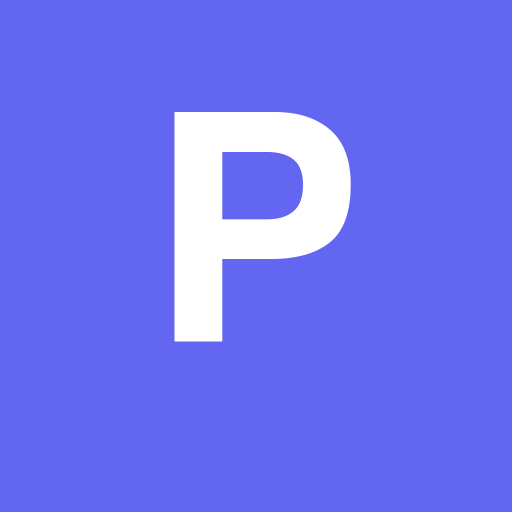
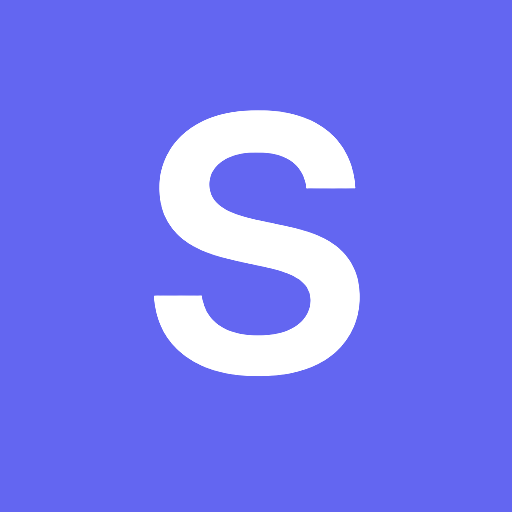
tend: ## Directory Structure
run3-ai.py
run11.py
run.py
export_data.py
run15. (76cede21)

diff --git a/web/src/components/GameApp.tsx b/web/src/components/GameApp.tsx
@@ -121,7 +121,7 @@ export function GameApp({
   return (
     <div className={`${compact ? "max-w-md py-4" : "max-w-lg py-6"} w-full mx-auto px-4 h-[100dvh] flex flex-col items-center overflow-hidden box-border`}>
       <div className="w-full flex justify-between items-baseline">
-        <h1 className="text-xl font-bold tracking-tight">doublespeak</h1>
+        <h1 className="text-xl font-bold tracking-tight">Split</h1>
         {showRandom && (
           <button
             onClick={handleRandomPuzzle}

diff --git a/web/src/index.html b/web/src/index.html
@@ -7,7 +7,8 @@
     <meta name="apple-mobile-web-app-status-bar-style" content="black-translucent" />
     <meta name="viewport" content="width=device-width, initial-scale=1.0, user-scalable=no" />
     
-    <title>doublespeak</title>
+    <title>Split</title>
+    <meta name="apple-mobile-web-app-title" content="Split">
     <meta name="theme-color" content="#ffffff">
     <link rel="preconnect" href="https://fonts.googleapis.com">
     <link rel="preconnect" href="https://fonts.gstatic.com" crossorigin>

diff --git a/puzzle-designer/src/App.tsx b/puzzle-designer/src/App.tsx
@@ -343,7 +343,7 @@ export function App() {
       {/* HEADER */}
       <header className="border-b border-black px-4 py-1.5 flex items-center justify-between">
         <h1 className="text-xs font-bold tracking-widest uppercase">
-          Proseset Designer
+          Split Designer
         </h1>
         <div className="flex items-center gap-4 text-xs">
           {enabledCount > 0 && (

diff --git a/puzzle-designer/src/index.html b/puzzle-designer/src/index.html
@@ -7,7 +7,7 @@
     <meta name="apple-mobile-web-app-status-bar-style" content="black-translucent" />
     <meta name="viewport" content="width=device-width, initial-scale=1.0, user-scalable=no" />
 
-    <title>Proseset Puzzle Designer</title>
+    <title>Split Puzzle Designer</title>
     <script type="module" src="./frontend.tsx" async></script>
   </head>
   <body>

diff --git a/web/src/server/segmentation.ts b/web/src/server/segmentation.ts
@@ -1,5 +1,5 @@
 /**
- * Server-side segmentation engine for validating Proseset combos.
+ * Server-side segmentation engine for validating Split combos.
  * Ports the core logic from puzzle1.py's segment_word + puzzle3.py's boundary check.
  */
 

diff --git a/web/public/sw.js b/web/public/sw.js
@@ -1,4 +1,4 @@
-const CACHE_NAME = "proseset-v2";
+const CACHE_NAME = "split-v3";
 const PRECACHE = ["/", "/dictionary.txt", "/newpuzzle.json", "/manifest.json"];
 
 self.addEventListener("install", (event) => {

diff --git a/puzzle-designer/src/server/engine.ts b/puzzle-designer/src/server/engine.ts
@@ -1,5 +1,5 @@
 /**
- * Proseset Puzzle Designer Engine
+ * Split Puzzle Designer Engine
  *
  * Ports core logic from the Python puzzle scripts:
  * - Word segmentation (run15.py)

diff --git a/puzzle2-stub.py b/puzzle2-stub.py
@@ -1,6 +1,6 @@
 #!/usr/bin/env python3
 """
-Proseset Word Decomposition Precomputer - puzzle2-stub.py
+Split Word Decomposition Precomputer - puzzle2-stub.py
 
 Pre-computes which words (of ANY length) can be broken down into
 sequences of valid card-length words, allowing edge fragments that
@@ -511,7 +511,7 @@ def display_results(
 # ============================================================================ #
 
 def parse_args():
-    parser = argparse.ArgumentParser(description="Pre-compute word decompositions for Proseset puzzles")
+    parser = argparse.ArgumentParser(description="Pre-compute word decompositions for Split puzzles")
     parser.add_argument('--card-min', type=int, default=CARD_MIN_LENGTH,
                         help=f'Min length for card words (default: {CARD_MIN_LENGTH})')
     parser.add_argument('--card-max', type=int, default=CARD_MAX_LENGTH,

diff --git a/generate_puzzle_json.py b/generate_puzzle_json.py
@@ -1,6 +1,6 @@
 #!/usr/bin/env python3
 """
-Generate puzzle JSON for the Proseset web game.
+Generate puzzle JSON for the Split web game.
 
 Usage:
   python3 generate_puzzle_json.py --deck word1,word2,...,word12 --date 2026-02-22
@@ -15,7 +15,7 @@ import sys
 
 
 def main():
-    parser = argparse.ArgumentParser(description="Generate puzzle JSON for Proseset web game")
+    parser = argparse.ArgumentParser(description="Generate puzzle JSON for Split web game")
     parser.add_argument("--deck", required=True, help="Comma-separated 12 words")
     parser.add_argument("--date", required=True, help="Puzzle date (YYYY-MM-DD)")
     parser.add_argument("--output", default="web/public/puzzles/", help="Output directory")

diff --git a/megapuzzle1.py b/megapuzzle1.py
@@ -1,6 +1,6 @@
 #!/usr/bin/env python3
 """
-Proseset Batch Puzzle Generator - megapuzzle1.py
+Split Batch Puzzle Generator - megapuzzle1.py
 
 Generates 1000+ diverse puzzles by tracking card and made-word usage
 across all previously generated puzzles. Words that have been used before
@@ -682,7 +682,7 @@ def _print_summary(puzzles: List[dict], tracker: DiversityTracker):
 
 def main():
     parser = argparse.ArgumentParser(
-        description="Generate a batch of diverse Proseset puzzles"
+        description="Generate a batch of diverse Split puzzles"
     )
     parser.add_argument('--num-puzzles', '-n', type=int, default=1000,
                         help='Number of puzzles to generate (default: 1000)')

diff --git a/megapuzzle2.py b/megapuzzle2.py
@@ -1,6 +1,6 @@
 #!/usr/bin/env python3
 """
-Proseset Batch Puzzle Generator v2 - megapuzzle2.py
+Split Batch Puzzle Generator v2 - megapuzzle2.py
 
 Changes from megapuzzle1:
   1. Includes doublets (2-card combos) and optionally quads (4-card)
@@ -367,7 +367,7 @@ def generate_batch_v2(
 
 def main():
     parser = argparse.ArgumentParser(
-        description="Generate a batch of diverse Proseset puzzles (v2: doublets, 4+ letter filter)"
+        description="Generate a batch of diverse Split puzzles (v2: doublets, 4+ letter filter)"
     )
     parser.add_argument('--num-puzzles', '-n', type=int, default=1000,
                         help='Number of puzzles to generate (default: 1000)')

diff --git a/puzzle6.py b/puzzle6.py
@@ -1,6 +1,6 @@
 #!/usr/bin/env python3
 """
-Proseset Puzzle Builder v6 - puzzle6.py
+Split Puzzle Builder v6 - puzzle6.py
 
 Builds on puzzle5's incremental scoring, adding top-K sampling with temperature
 to produce diverse puzzles instead of always converging to the same "universally
